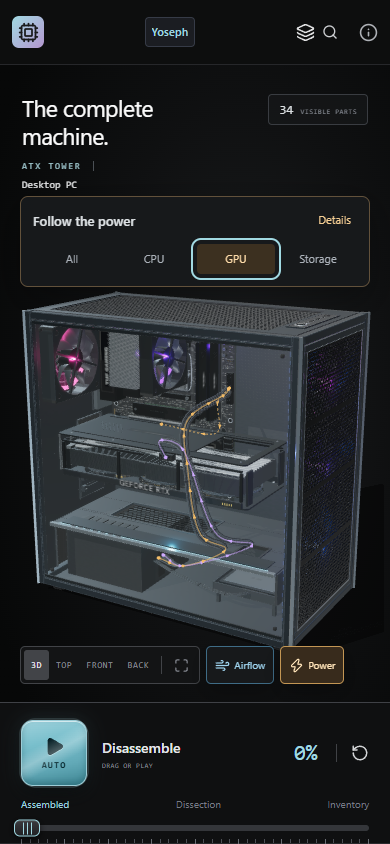
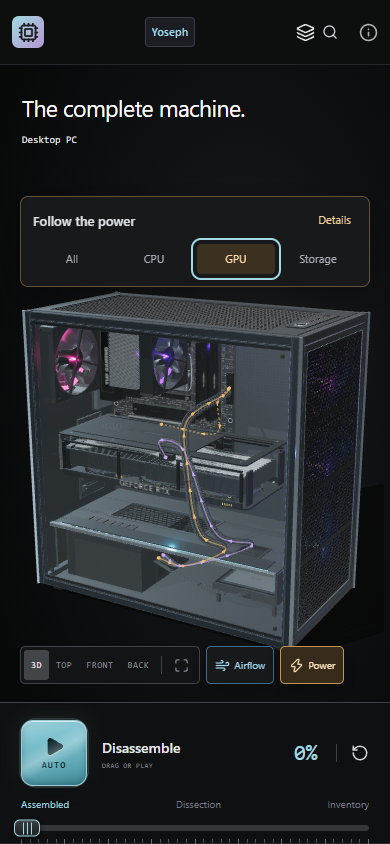
Remove stage captions, parts counter and system subtitles

diff --git a/app/workbench.css b/app/workbench.css
@@ -306,12 +306,6 @@ a {
   display: flex;
   flex-direction: column;
 }
-.eyebrow {
-  font: 10px monospace;
-  letter-spacing: 1.65px;
-  color: #abaeb3;
-  margin: 0 0 12px;
-}
 .section-heading {
   font: 600 9.5px monospace;
   letter-spacing: 1.4px;
@@ -528,14 +522,6 @@ a {
 .stage-heading > div:first-child {
   min-width: 0;
 }
-.stage-heading .eyebrow {
-  color: var(--accent-muted);
-  font-size: 10px;
-  margin: 0;
-  padding-right: 12px;
-  border-right: 1px solid #4b5055;
-  white-space: nowrap;
-}
 .stage-heading h1 {
   font-size: 28px;
   font-weight: 400;
@@ -609,27 +595,6 @@ a {
   white-space: nowrap;
   overflow: hidden;
   text-overflow: ellipsis;
-}
-.stage-counter {
-  display: flex;
-  align-items: baseline;
-  gap: 7px;
-  flex: none;
-  padding: 7px 10px;
-  color: #979ba2;
-  background: #17191b99;
-  border: 1px solid #393c41;
-  border-radius: 4px;
-}
-.stage-counter strong {
-  font: 13px monospace;
-  color: #d9dde0;
-}
-.stage-counter span {
-  font: 9px monospace;
-  letter-spacing: 0.7px;
-  color: #858991;
-  text-transform: uppercase;
 }
 .viewport {
   position: absolute;
@@ -1604,15 +1569,11 @@ a {
 .has-selection .stage-heading {
   right: calc(var(--inspect) + 30px);
 }
-.has-selection .stage-heading h1,
-.has-selection .stage-heading .eyebrow {
+.has-selection .stage-heading h1 {
   display: none;
 }
 .has-selection .stage-meta {
   margin-top: 0;
-}
-.has-selection .stage-counter {
-  display: none;
 }
 .has-selection .stage-tools {
   right: calc(var(--inspect) + 30px);
@@ -1971,9 +1932,6 @@ a {
   .has-selection .reset {
     padding-left: 14px;
   }
-  .stage-counter {
-    min-width: 0;
-  }
   .header-actions {
     gap: 15px;
   }
@@ -2013,17 +1971,10 @@ a {
     left: 22px;
     right: 22px;
   }
-  .stage-heading .eyebrow {
-    font-size: 9px;
-  }
   .stage-heading h1 {
     font-size: 23px;
     max-width: 250px;
     line-height: 1.2;
-  }
-  .stage-counter span {
-    font-size: 7px;
-    letter-spacing: 0.5px;
   }
   .breadcrumbs {
     font-size: 10px;
@@ -2221,9 +2172,6 @@ a {
   .breadcrumbs {
     margin-top: 0;
   }
-  .stage-heading .eyebrow {
-    margin-bottom: 0;
-  }
   .viewport {
     top: 176px;
     bottom: 168px;
@@ -2311,12 +2259,6 @@ a {
   }
   .stage-heading h1 {
     font-size: 21px;
-  }
-  .stage-heading .eyebrow {
-    font-size: 8px;
-  }
-  .stage-counter {
-    display: none;
   }
   .breadcrumbs {
     font-size: 9px;
@@ -3679,21 +3621,6 @@ a {
   white-space: nowrap;
   overflow: hidden;
   text-overflow: ellipsis;
-}
-.system-picker small {
-  display: block;
-  width: 100%;
-  margin-top: 0;
-  color: #6f757e;
-  font: 8.5px monospace;
-  letter-spacing: 0.05px;
-  line-height: 1.2;
-  white-space: nowrap;
-  overflow: hidden;
-  text-overflow: ellipsis;
-}
-.system-picker button[aria-pressed='true'] small {
-  color: #9ac0c8;
 }
 
 @media (max-width: 700px) {

diff --git a/app/stage-heading.tsx b/app/stage-heading.tsx
@@ -8,8 +8,6 @@ type Props = {
   explode: number;
   logical: boolean;
   selected: Concept | null;
-  /** `null` until the viewer has reported for the first time. */
-  count: number | null;
   /** Show the first-visit line about what clicking does. */
   hint?: boolean;
   onDismissHint?: () => void;
@@ -29,7 +27,6 @@ export default function StageHeading({
   explode,
   logical,
   selected,
-  count,
   hint = false,
   onDismissHint,
   onNavigate,
@@ -49,7 +46,6 @@ export default function StageHeading({
               : scale.title}
         </h1>
         <div className="stage-meta">
-          <p className="eyebrow">{scale.caption}</p>
           <nav className="breadcrumbs" aria-label="Component hierarchy">
             {path.length > 1 && (
               <button
@@ -88,16 +84,6 @@ export default function StageHeading({
           </p>
         )}
       </div>
-      {count !== null && (
-        <output
-          className="stage-counter"
-          aria-live="polite"
-          aria-label={`${count} visible parts`}
-        >
-          <strong>{count}</strong>
-          <span>visible parts</span>
-        </output>
-      )}
     </section>
   );
 }

diff --git a/app/scale-nav.tsx b/app/scale-nav.tsx
@@ -153,13 +153,6 @@ export default function ScaleNav({
                     ? 'Laptops'
                     : 'Mac'}
               </strong>
-              <small>
-                {root === 'pc'
-                  ? 'ATX desktop'
-                  : root === 'legion'
-                    ? 'Legion 5'
-                    : 'MacBook Pro'}
-              </small>
             </button>
           );
         })}

diff --git a/app/page.tsx b/app/page.tsx
@@ -144,7 +144,6 @@ export default function Home() {
         explode={state.explode}
         logical={logical}
         selected={selected}
-        count={count}
         hint={hint}
         onDismissHint={dismissHint}
         onNavigate={navigate}
